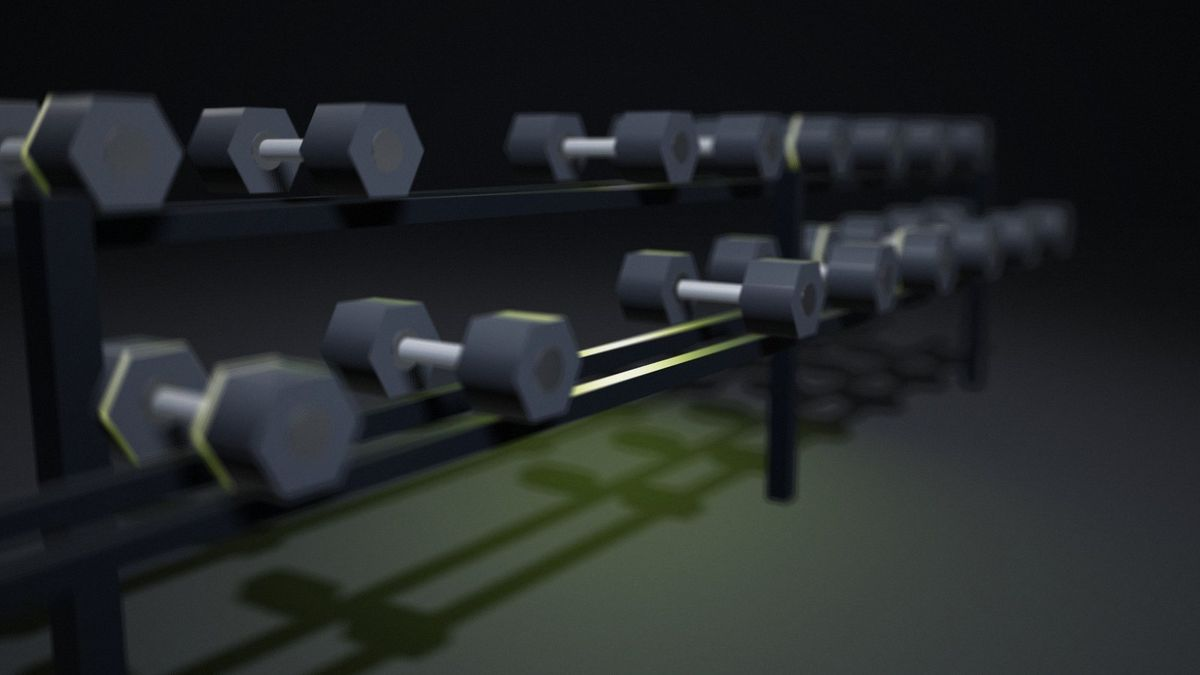
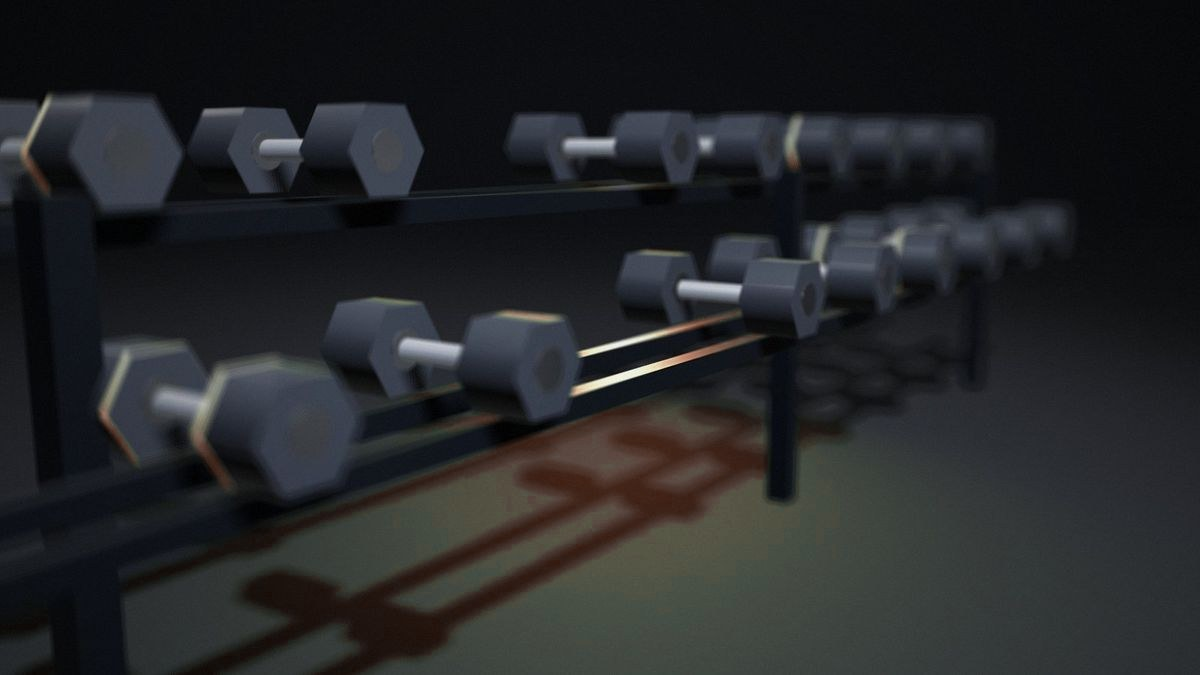
Neues Design: Orange statt Limette, ohne Kettlebell, aufgeräumter Start
- Farbpalette: warmes Orange als einziger Akzent, wärmere Grautöne,
  Warnrot klar vom Akzent unterschieden (Wunsch des Nutzers)
- Kettlebell-Grafik entfernt (Plan-Begrüßung und Plan fertig zeigen
  ein schlichtes Symbol), drei Szenenbilder mit Kettlebell ersetzt,
  Limettentöne in den übrigen Bildern auf Orange umgefärbt
- Start: Schnellzugriff mit acht Kacheln (Kraft, Laufen, Home, Timer,
  Übungen, Rekorde, Ziele, Plan); Aktivitätenliste (steht im
  Fortschritt) und Event-Hinweis (steht unter Entdecken) entfernt
- CLAUDE.md: Akzent Orange

Claude-Session: https://claude.ai/code/session_01U25eAHRv8mbFCMbo2U4HZp

diff --git a/src/app/(tabs)/dashboard/index.tsx b/src/app/(tabs)/dashboard/index.tsx
@@ -5,9 +5,8 @@ import { Pressable, StyleSheet, View } from 'react-native';
 
 import { ActiveSessions } from '@/components/active-sessions';
 import { ChallengeCard } from '@/components/challenge-card';
-import { EventCard } from '@/components/event-card';
 import { EventGoalCard } from '@/components/event-goal-card';
-import { FeedCard } from '@/components/feed-card';
+import { QuickGrid } from '@/components/quick-grid';
 import { GoalCard } from '@/components/goal-card';
 import { RecoveryCard } from '@/components/recovery-card';
 import { WhatsNewCard } from '@/components/whats-new-card';
@@ -24,7 +23,6 @@ import { Stat } from '@/components/ui/stat';
 import { OnImage, Radius, Spacing } from '@/constants/theme';
 import { getExercise } from '@/data/exercises';
 import { sceneForKind } from '@/data/images';
-import { getProgram } from '@/data/programs';
 import { useActivities } from '@/hooks/use-activities';
 import { useBadgeContext } from '@/hooks/use-badge-context';
 import { useChallenges } from '@/hooks/use-challenges';
@@ -33,8 +31,7 @@ import { useTheme } from '@/hooks/use-theme';
 import { FREEZES_PER_MONTH, streaks, weekStart, weekStats } from '@/lib/logic/activity';
 import { BADGES } from '@/lib/logic/badges';
 import { closestGoal } from '@/lib/logic/goals';
-import { daysUntilEvent, nextSavedEvent, upcomingEvents } from '@/lib/logic/events';
-import { buildFeed } from '@/lib/logic/feed';
+import { nextSavedEvent } from '@/lib/logic/events';
 import { compareWithLastWeek, trainingIdentity } from '@/lib/logic/identity';
 import { dayHeading, greeting, nextBadge, weeklyGoal } from '@/lib/logic/motivation';
 import { missedLastPlanned, nextSession, sessionsForDay, WEEKDAY_NAMES, weekGoalDays } from '@/lib/logic/plan';
@@ -46,9 +43,7 @@ import { successFeedback } from '@/lib/haptics';
 import { useGamification } from '@/lib/storage/gamification-store';
 import { useGoalsStore } from '@/lib/storage/goals-store';
 import { useSavedEvents } from '@/lib/storage/saved-events-store';
-import { useHomeSessions } from '@/lib/storage/home-store';
 import { usePlanStore } from '@/lib/storage/plan-store';
-import { useRunStore } from '@/lib/storage/run-store';
 import { useSettings } from '@/lib/storage/settings-store';
 import { useWorkouts } from '@/lib/storage/workout-store';
 
@@ -109,8 +104,6 @@ export default function DashboardScreen() {
   const strengthHistory = useWorkouts((state) => state.history);
   const goals = useGoalsStore((state) => state.goals);
   const nextGoal = useMemo(() => closestGoal(goals, strengthHistory), [goals, strengthHistory]);
-  const homeSessions = useHomeSessions((state) => state.sessions);
-  const runHistory = useRunStore((state) => state.history);
   const earned = useGamification((state) => state.earned);
   const unseen = useGamification((state) => state.unseen);
   const markSeen = useGamification((state) => state.markSeen);
@@ -126,10 +119,6 @@ export default function DashboardScreen() {
   // Ankündigung: das nächste Event der kommenden zwei Wochen
   const savedEvents = useSavedEvents((state) => state.saved);
   const myEvent = useMemo(() => nextSavedEvent(events, Object.keys(savedEvents), now), [events, savedEvents, now]);
-  const nextEvent = useMemo(
-    () => (myEvent ? undefined : upcomingEvents(events, now, 1).find((e) => daysUntilEvent(e, now) <= 14)),
-    [events, now, myEvent],
-  );
   // Eine Challenge: die eigene, sonst eine laufende als Einladung
   const featuredChallenge =
     challengeEntries.find((e) => e.joined && !e.progress?.completed) ??
@@ -148,17 +137,6 @@ export default function DashboardScreen() {
   const suggestion = useMemo(
     () => suggestWorkout({ activities, strength: strengthHistory, now, muscleGroupOf: (id) => getExercise(id)?.muscleGroup }),
     [activities, strengthHistory, now],
-  );
-  const feed = useMemo(
-    () =>
-      buildFeed({
-        strength: strengthHistory,
-        home: homeSessions,
-        runs: runHistory,
-        muscleGroupOf: (id) => getExercise(id)?.muscleGroup,
-        programName: (id) => getProgram(id)?.name,
-      }),
-    [strengthHistory, homeSessions, runHistory],
   );
   const today = (new Date(now).getDay() + 6) % 7;
   const time = durationParts(week.durationSeconds);
@@ -303,6 +281,9 @@ export default function DashboardScreen() {
         </ImageCard>
       </FadeIn>
 
+      {/* Schnellzugriff: alle Bereiche an fester Stelle, statt sie über die Seite zu verteilen */}
+      <QuickGrid />
+
       {/* Ohne Plan: Einladung (Wenn-Dann-Pläne erhöhen die Umsetzung) */}
       {plan ? null : (
         <Card onPress={() => router.push('/plan/setup')} style={styles.inviteRow}>
@@ -439,31 +420,6 @@ export default function DashboardScreen() {
       {/* Erholung: was kann ich heute trainieren? */}
       <RecoveryCard />
 
-      {/* 4. Eigene Aktivitäten (Feed wie bei Strava), bewusst begrenzt */}
-      <SectionHeader
-        title="Deine Aktivitäten"
-        action={feed.length > 0 ? { label: 'Alle ansehen', onPress: () => router.push('/history') } : undefined}
-      />
-      {feed.length === 0 ? (
-        <Card>
-          <AppText variant="heading">Deine erste Einheit wartet</AppText>
-          <AppText color="textSecondary">
-            Tippe unten auf das Plus. Danach steht sie hier mit allen Kennzahlen und Rekorden.
-          </AppText>
-        </Card>
-      ) : (
-        feed.map((item) => (
-          <FeedCard
-            key={item.id}
-            item={item}
-            name={name}
-            now={now}
-            units={units}
-            onPress={() => router.push({ pathname: '/history/[id]', params: { id: item.id } })}
-          />
-        ))
-      )}
-
       {/* 5. Nahe Ziele: nächstes Abzeichen (Goal-Gradient), Challenge, Event */}
       {upcoming && upcomingBadge ? (
         <>
@@ -509,12 +465,6 @@ export default function DashboardScreen() {
         />
       ) : null}
 
-      {nextEvent ? (
-        <>
-          <SectionHeader title="Demnächst" action={{ label: 'Alle Events', onPress: () => router.push('/discover') }} />
-          <EventCard event={nextEvent} now={now} compact />
-        </>
-      ) : null}
     </Screen>
   );
 }

diff --git a/src/components/quick-grid.tsx b/src/components/quick-grid.tsx
@@ -1,0 +1,47 @@
+import { useRouter, type Href } from 'expo-router';
+import type { ComponentProps } from 'react';
+import { StyleSheet, View } from 'react-native';
+
+import { QuickAction } from '@/components/ui/quick-action';
+import { Spacing } from '@/constants/theme';
+import { usePlanStore } from '@/lib/storage/plan-store';
+
+type Tile = { icon: ComponentProps<typeof QuickAction>['icon']; label: string; href: Href };
+
+/** Schnellzugriff auf alle Bereiche: zwei feste Reihen, immer an derselben Stelle. */
+export function QuickGrid() {
+  const router = useRouter();
+  const hasPlan = usePlanStore((state) => state.plan !== null);
+
+  const rows: Tile[][] = [
+    [
+      { icon: 'barbell-outline', label: 'Kraft', href: '/training/strength' },
+      { icon: 'walk-outline', label: 'Laufen', href: '/training/running' },
+      { icon: 'home-outline', label: 'Home', href: '/training/home' },
+      { icon: 'timer-outline', label: 'Timer', href: '/training/timer' },
+    ],
+    [
+      { icon: 'list-outline', label: 'Übungen', href: '/training/exercises' },
+      { icon: 'trophy-outline', label: 'Rekorde', href: '/history/records' },
+      { icon: 'flag-outline', label: 'Ziele', href: '/discover' },
+      { icon: 'calendar-outline', label: 'Plan', href: hasPlan ? '/plan' : '/plan/setup' },
+    ],
+  ];
+
+  return (
+    <View style={styles.grid}>
+      {rows.map((row, index) => (
+        <View key={index} style={styles.row}>
+          {row.map((tile) => (
+            <QuickAction key={tile.label} icon={tile.icon} label={tile.label} onPress={() => router.push(tile.href)} />
+          ))}
+        </View>
+      ))}
+    </View>
+  );
+}
+
+const styles = StyleSheet.create({
+  grid: { gap: Spacing.two },
+  row: { flexDirection: 'row', gap: Spacing.two },
+});

diff --git a/src/constants/theme.ts b/src/constants/theme.ts
@@ -1,34 +1,34 @@
 export const Colors = {
   dark: {
-    background: '#0B0D10',
-    surface: '#14181D',
-    surfaceAlt: '#1C2229',
-    border: '#262D36',
-    text: '#F4F6F8',
-    textSecondary: '#9AA4AF',
-    accent: '#C8F03C',
+    background: '#0E0F11',
+    surface: '#17191C',
+    surfaceAlt: '#212428',
+    border: '#2C3036',
+    text: '#F5F5F4',
+    textSecondary: '#A1A1AA',
+    accent: '#FF6B2C',
     /** Zart getönte Fläche im Akzentton, z.B. für Fortschrittsspuren */
-    accentSoft: '#2A3313',
-    onAccent: '#0B0D10',
-    danger: '#FF6B6B',
+    accentSoft: '#3A2418',
+    onAccent: '#160A04',
+    danger: '#FF5C7A',
     success: '#4ADE80',
   },
   light: {
-    background: '#F6F7F9',
+    background: '#F7F6F4',
     surface: '#FFFFFF',
-    surfaceAlt: '#EEF0F3',
-    border: '#DDE1E6',
-    text: '#0B0D10',
-    textSecondary: '#5B6570',
-    accent: '#4F7A00',
-    accentSoft: '#E6EFD3',
+    surfaceAlt: '#F0EEEB',
+    border: '#E2DFDA',
+    text: '#111214',
+    textSecondary: '#5F6168',
+    accent: '#C2410C',
+    accentSoft: '#FCE7DB',
     onAccent: '#FFFFFF',
-    danger: '#D93636',
+    danger: '#D61F45',
     success: '#1F9D55',
   },
 } as const;
 
-/** Farben auf Bildern: Bilder sind in beiden Modi dunkel, darauf immer helle Schrift und helle Limette. */
+/** Farben auf Bildern: Bilder sind in beiden Modi dunkel, darauf immer helle Schrift und das helle Orange. */
 export const OnImage = {
   text: '#FFFFFF',
   accent: Colors.dark.accent,

diff --git a/src/data/images.ts b/src/data/images.ts
@@ -8,13 +8,13 @@ export const SCENES = {
   'hero-kraft': require('../../assets/images/scenes/hero-kraft.jpg'),
   'hero-lauf': require('../../assets/images/scenes/hero-lauf.jpg'),
   'hero-home': require('../../assets/images/scenes/hero-home.jpg'),
-  'challenge-winter-arc': require('../../assets/images/scenes/challenge-winter-arc.jpg'),
+  'challenge-winter-arc': require('../../assets/images/scenes/goal-muskeln.jpg'),
   'challenge-100k': require('../../assets/images/scenes/challenge-100k.jpg'),
-  'challenge-neustart': require('../../assets/images/scenes/challenge-neustart.jpg'),
+  'challenge-neustart': require('../../assets/images/scenes/goal-ausdauer.jpg'),
   'challenge-gewohnheit': require('../../assets/images/scenes/challenge-gewohnheit.jpg'),
   'goal-muskeln': require('../../assets/images/scenes/goal-muskeln.jpg'),
   'goal-ausdauer': require('../../assets/images/scenes/goal-ausdauer.jpg'),
-  'goal-abnehmen': require('../../assets/images/scenes/goal-abnehmen.jpg'),
+  'goal-abnehmen': require('../../assets/images/scenes/hero-lauf.jpg'),
   'goal-fitness': require('../../assets/images/scenes/goal-fitness.jpg'),
   'goal-beweglichkeit': require('../../assets/images/scenes/goal-beweglichkeit.jpg'),
 } satisfies Record<string, ImageSourcePropType>;

diff --git a/src/components/ui/icon-badge.tsx b/src/components/ui/icon-badge.tsx
@@ -1,0 +1,28 @@
+import { Ionicons } from '@expo/vector-icons';
+import type { ComponentProps } from 'react';
+import { StyleSheet, View } from 'react-native';
+
+import { useTheme } from '@/hooks/use-theme';
+
+type IconName = ComponentProps<typeof Ionicons>['name'];
+
+/** Ruhiges Symbol im Akzentkreis für Begrüßungs- und Erfolgsmomente (ersetzt die frühere Kettlebell-Grafik). */
+export function IconBadge({ icon, size = 96 }: { icon: IconName; size?: number }) {
+  const theme = useTheme();
+  return (
+    <View style={[styles.outer, { width: size, height: size, borderRadius: size / 2, backgroundColor: theme.accentSoft }]}>
+      <View
+        style={[
+          styles.inner,
+          { width: size * 0.64, height: size * 0.64, borderRadius: size * 0.32, backgroundColor: theme.accent },
+        ]}>
+        <Ionicons name={icon} size={size * 0.32} color={theme.onAccent} />
+      </View>
+    </View>
+  );
+}
+
+const styles = StyleSheet.create({
+  outer: { alignItems: 'center', justifyContent: 'center', alignSelf: 'center' },
+  inner: { alignItems: 'center', justifyContent: 'center' },
+});

diff --git a/src/app/plan/setup.tsx b/src/app/plan/setup.tsx
@@ -3,7 +3,7 @@ import { useRouter } from 'expo-router';
 import { useMemo, useState, type ComponentProps } from 'react';
 import { Pressable, ScrollView, StyleSheet, Switch, View } from 'react-native';
 
-import { KettlebellHero } from '@/components/illustrations/kettlebell-hero';
+import { IconBadge } from '@/components/ui/icon-badge';
 import { AppText } from '@/components/ui/app-text';
 import { Button } from '@/components/ui/button';
 import { Chip } from '@/components/ui/chip';
@@ -243,7 +243,7 @@ export default function PlanSetupScreen() {
       <ScrollView style={styles.flex} contentContainerStyle={styles.body} keyboardShouldPersistTaps="handled">
         {step === 'welcome' ? (
           <View style={styles.welcome}>
-            <KettlebellHero size={220} />
+            <IconBadge icon="calendar" size={120} />
             <AppText variant="label" color="accent">
               WILLKOMMEN
             </AppText>

diff --git a/src/app/plan/index.tsx b/src/app/plan/index.tsx
@@ -2,7 +2,7 @@ import { Ionicons } from '@expo/vector-icons';
 import { useLocalSearchParams, useRouter } from 'expo-router';
 import { Pressable, StyleSheet, View } from 'react-native';
 
-import { KettlebellHero } from '@/components/illustrations/kettlebell-hero';
+import { IconBadge } from '@/components/ui/icon-badge';
 import { AppText } from '@/components/ui/app-text';
 import { Button } from '@/components/ui/button';
 import { Card } from '@/components/ui/card';
@@ -78,7 +78,7 @@ export default function PlanScreen() {
     <Screen>
       {neu ? (
         <View style={styles.celebrate}>
-          <KettlebellHero size={150} />
+          <IconBadge icon="checkmark" size={96} />
           <AppText variant="title" style={styles.center}>
             Dein Plan steht.
           </AppText>

diff --git a/CLAUDE.md b/CLAUDE.md
@@ -22,7 +22,7 @@ All-in-One Fitness-App (Kraft, Home-Workouts, Running). Entwicklungsplan: `claud
 
 ## Design
 - Dunkel zuerst, Hell-Modus wird unterstützt (Farben in `src/constants/theme.ts`)
-- Anthrazit-Flächen mit einem einzigen Akzent (Limette), große Typografie, runde Karten
+- Anthrazit-Flächen mit einem einzigen Akzent (Orange, vom Nutzer am 4.11. statt Limette gewählt), große Typografie, runde Karten
 - Keine generische Standard-UI: immer die Komponenten aus `src/components/ui` und die Theme-Tokens nutzen
 
 ## Regeln für Claude Code
